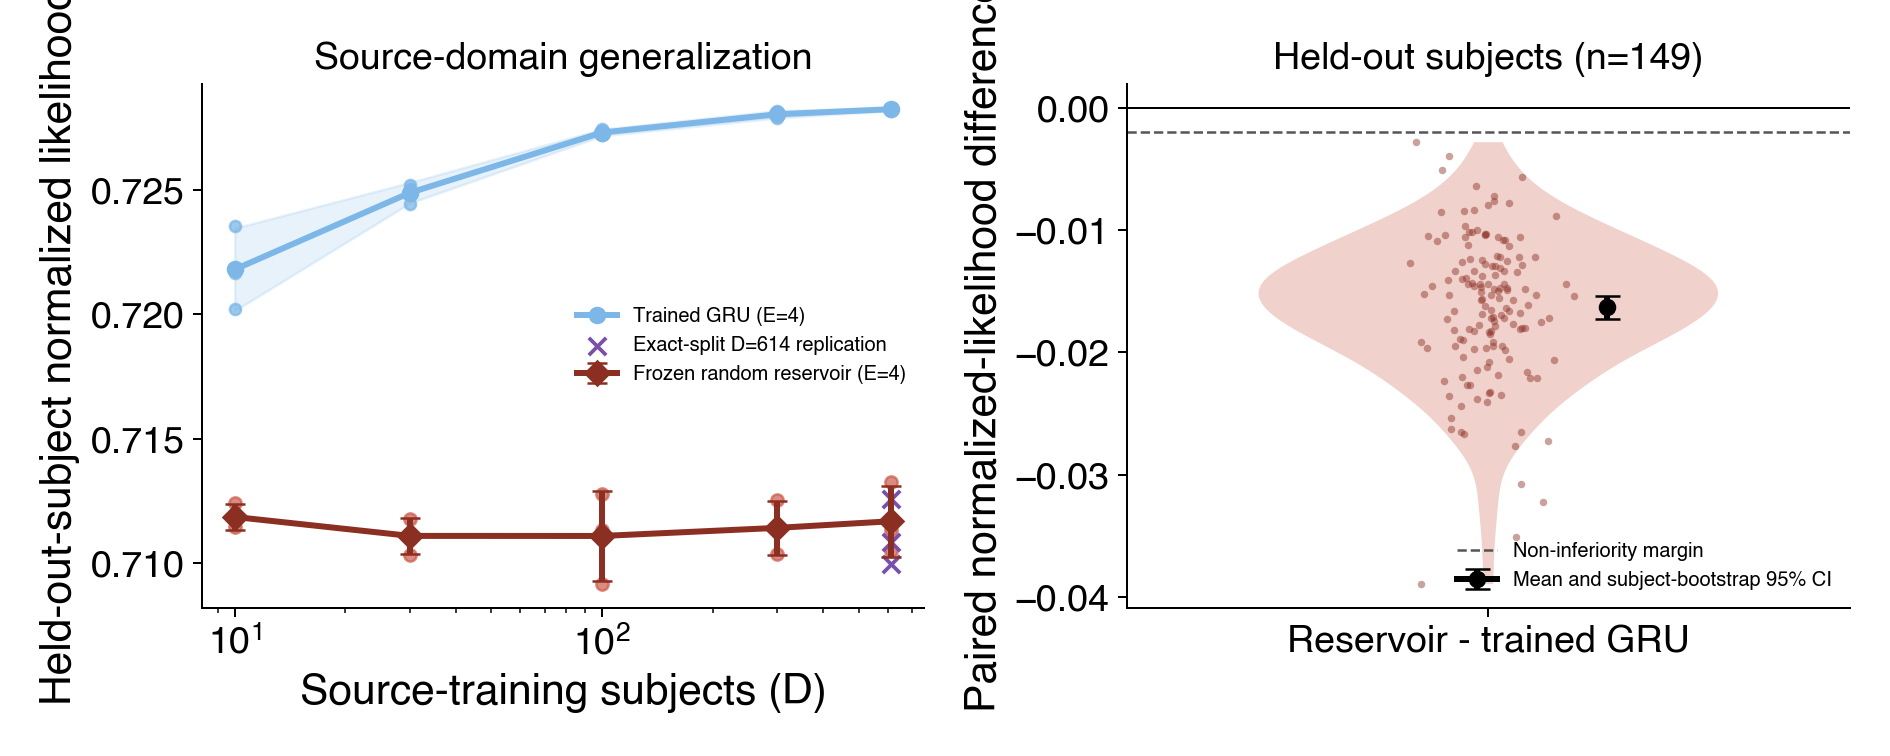
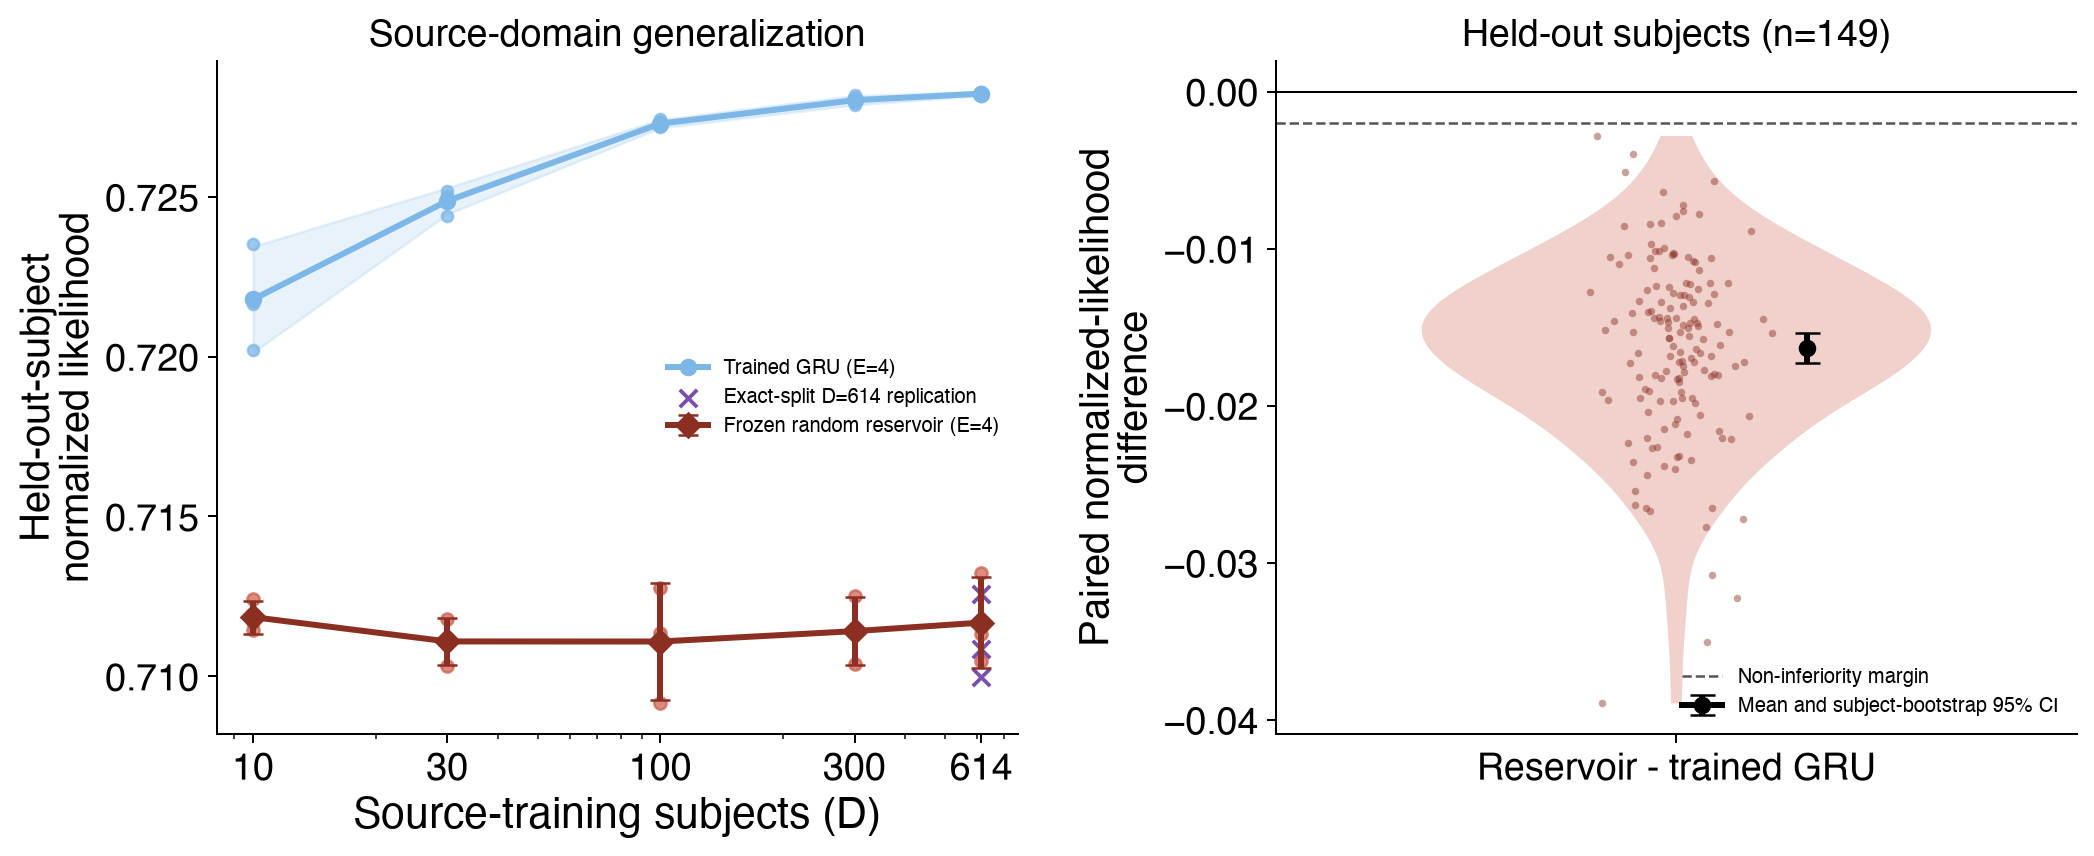
docs(study10): freeze final artifact identities and readable figure
Re-extract the pinned results with complete producer SHAs. Attach original Study 01 run/artifact identities and regenerate the report; every historical likelihood and bootstrap statistic remains identical.

Refs #151

diff --git a/studies/10-gru-reservoir-ablation/analysis/reports/r1-frozen-random-reservoir.md b/studies/10-gru-reservoir-ablation/analysis/reports/r1-frozen-random-reservoir.md
@@ -25,6 +25,11 @@ reproduce: make -C studies/10-gru-reservoir-ablation r1
 <!-- BEGIN result-1 -->
 ![Reservoir comparison](../fig_reservoir_vs_trained.png)
 
+Left: pooled held-out normalized likelihood; each small dot is one source seed,
+with curves showing three-seed means and shading/error bars showing seed SD.
+Purple crosses are the separate exact-split D=614 replication. Right: seed-averaged
+paired differences for 149 held-out mice, with the mean and subject-bootstrap 95% CI.
+
 | nominal D | realized D by seed | trained GRU | frozen reservoir | reservoir − trained |
 |---:|---|---:|---:|---:|
 | 10 | 10, 10, 10 | 0.721793 | 0.711852 | -0.009942 |
